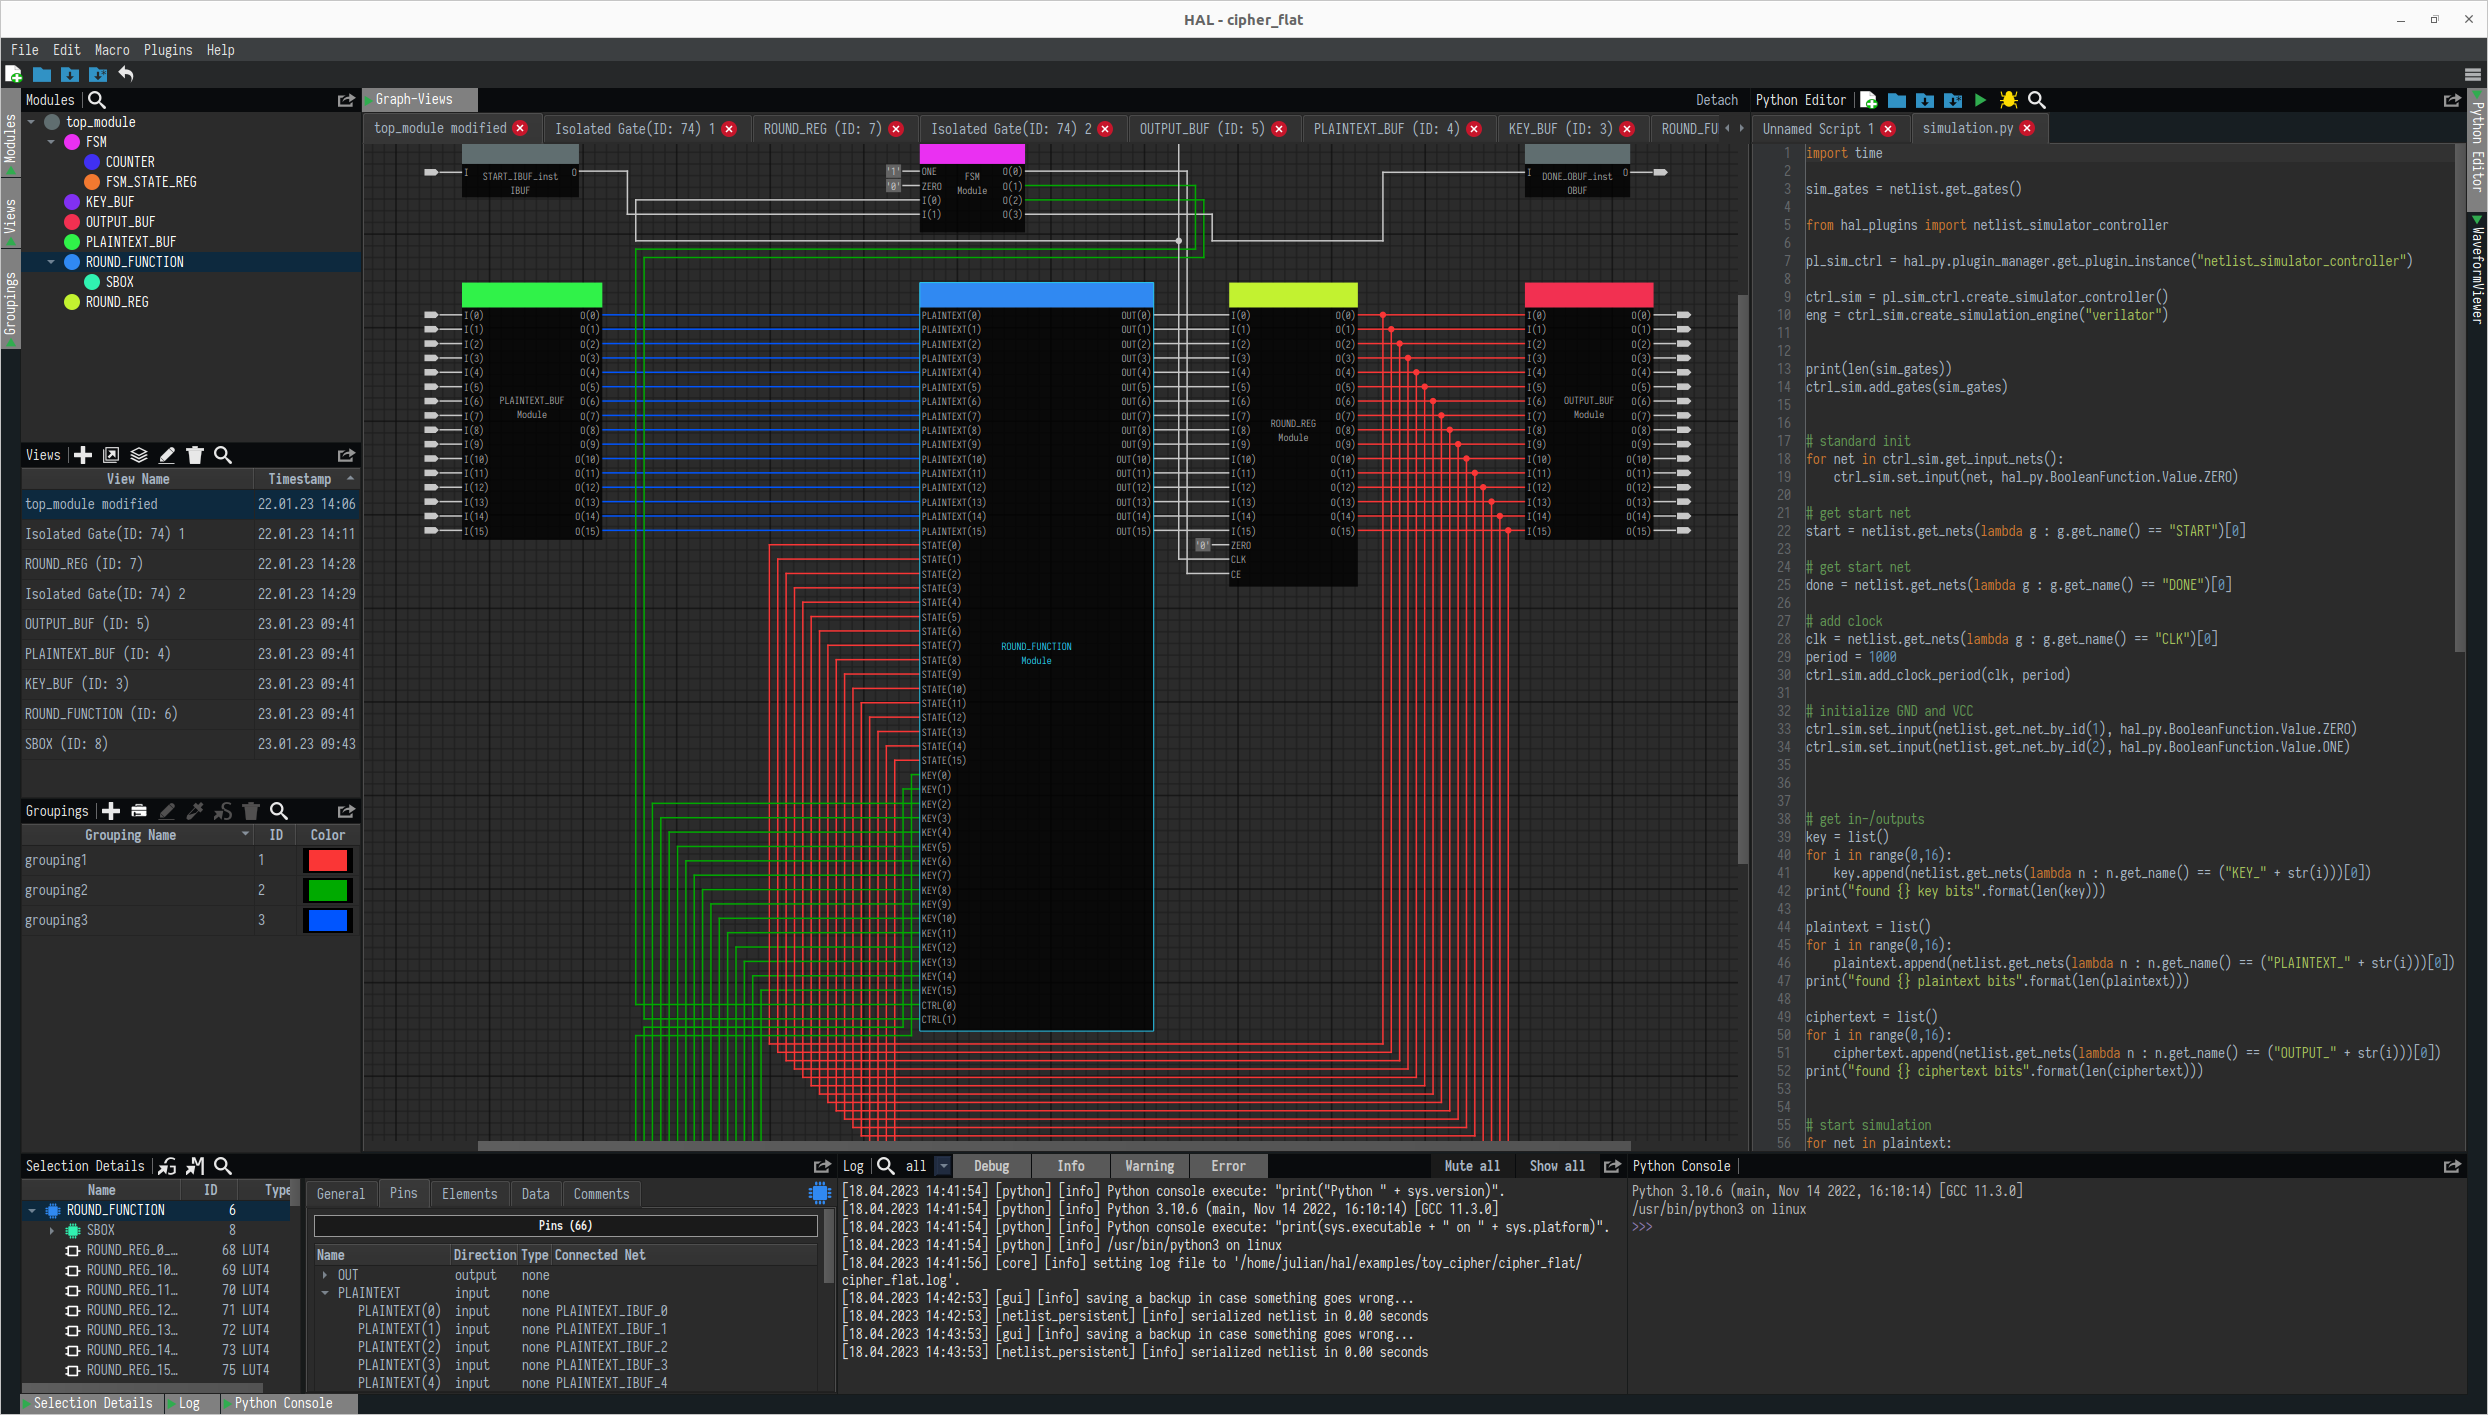
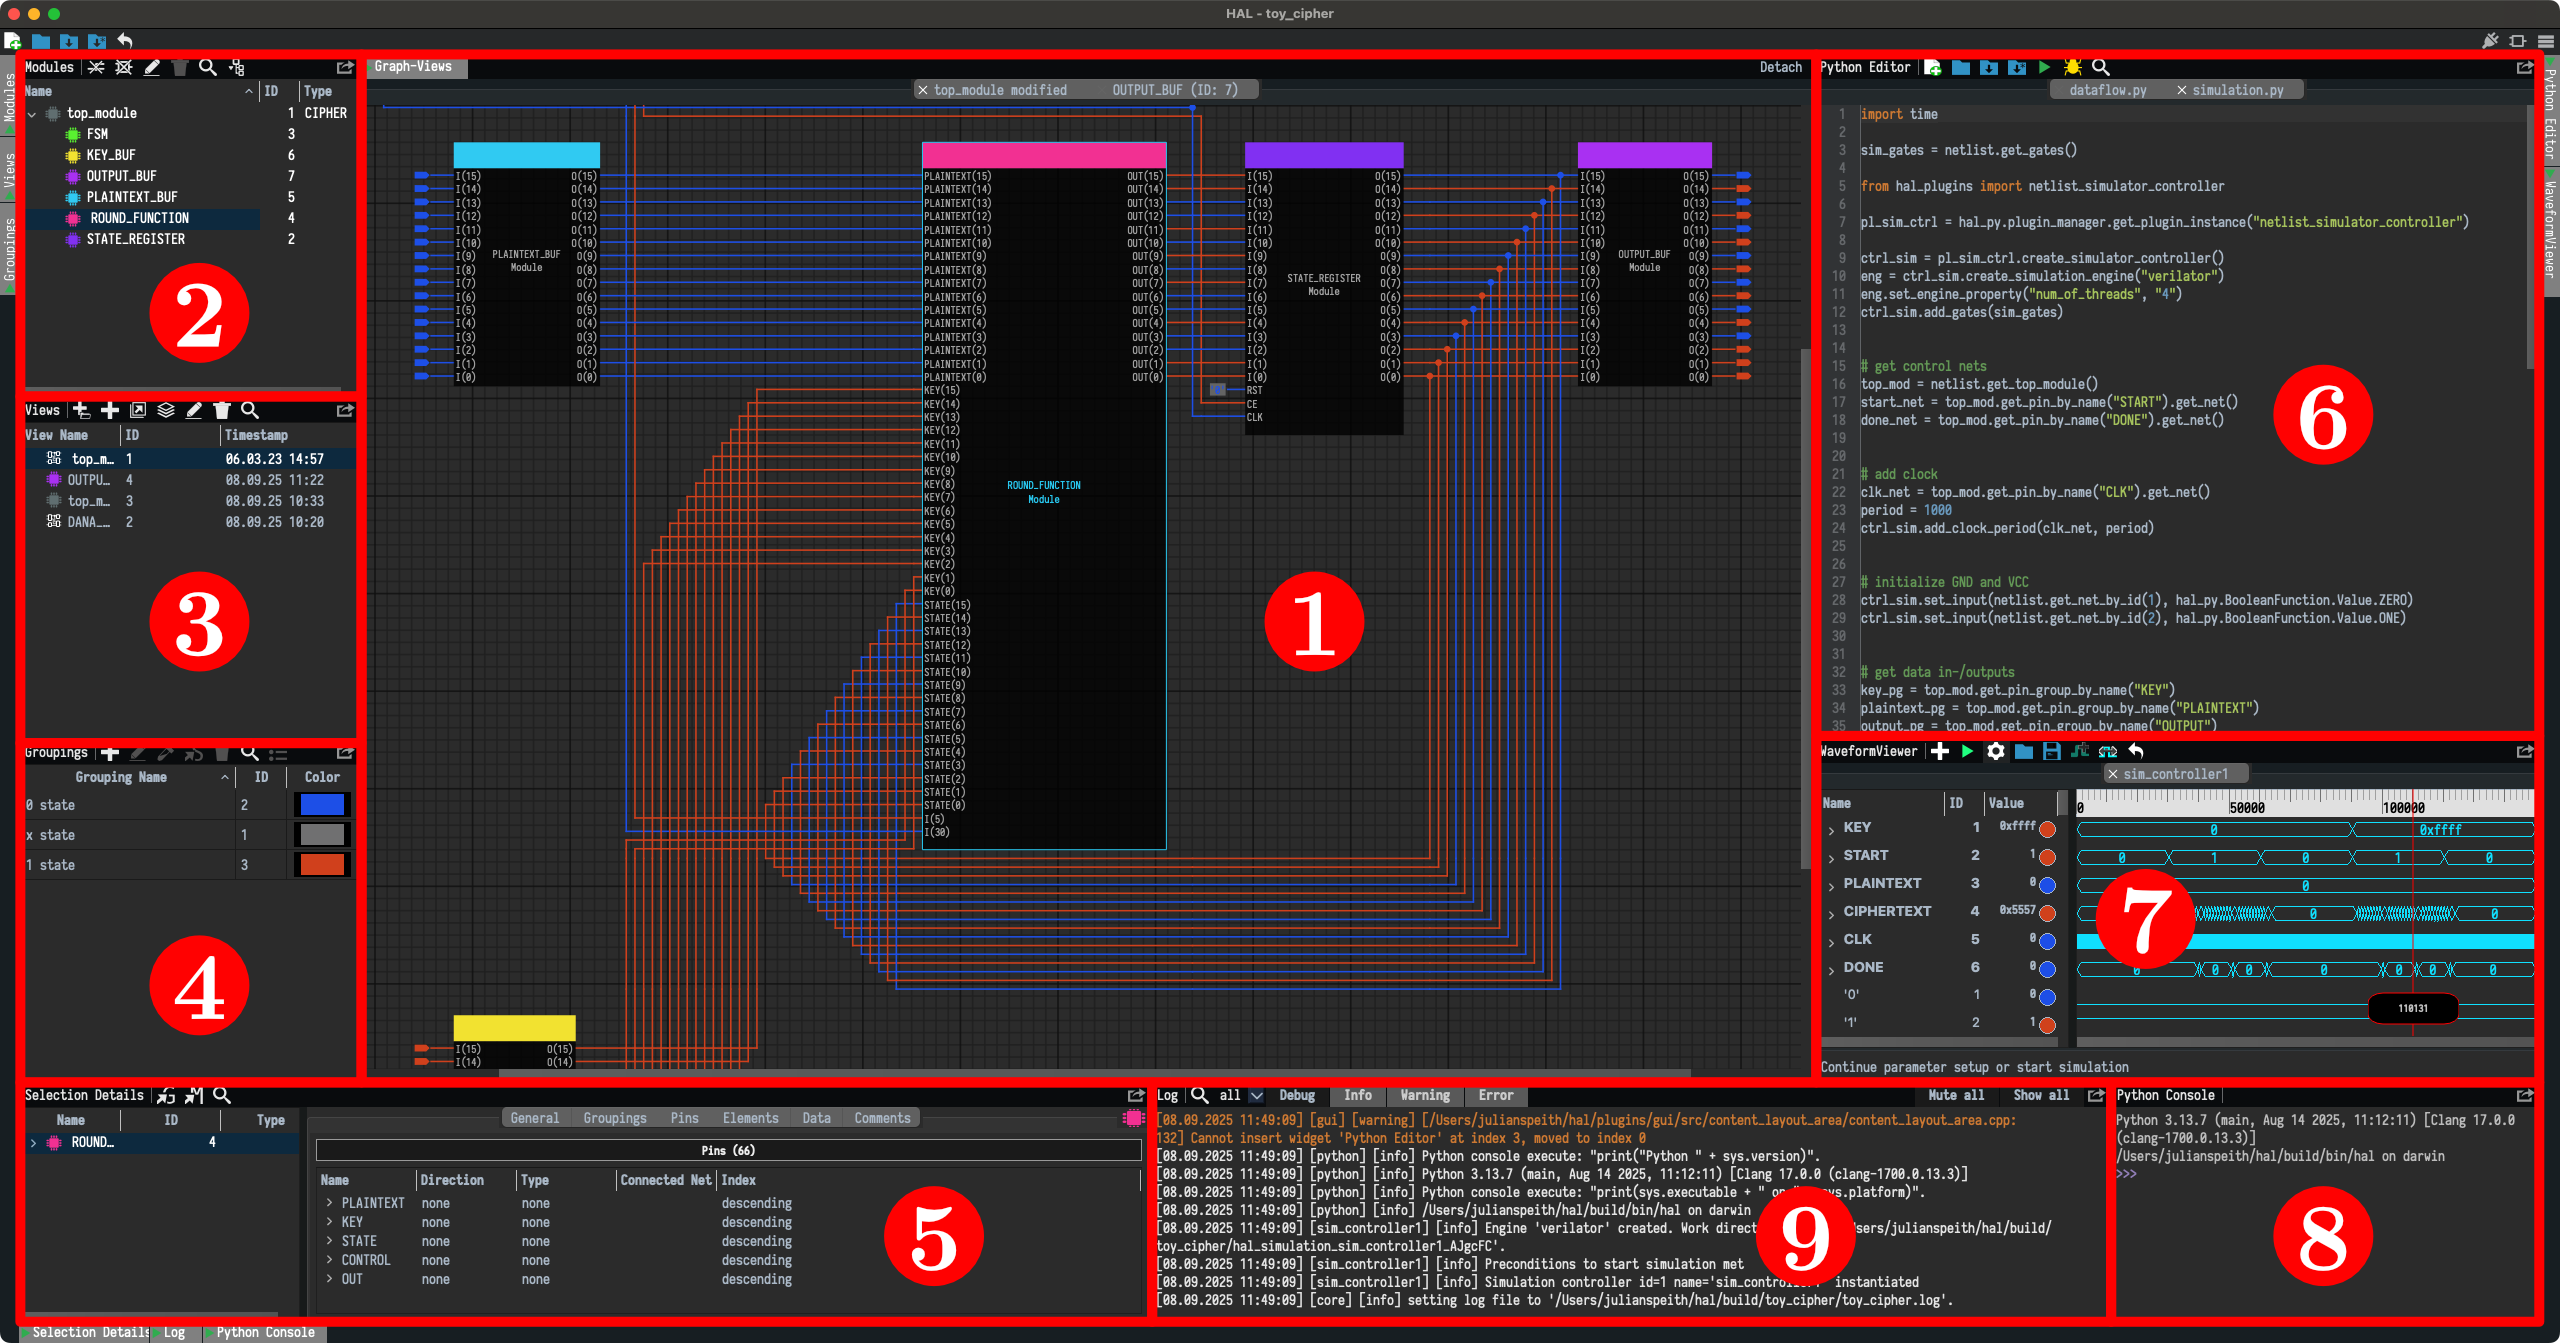
HAL screenshot updated

diff --git a/README.md b/README.md
@@ -6,7 +6,16 @@ HAL \[/hel/\] is a comprehensive netlist reverse engineering and manipulation fr
 
 ![HAL Screenshot](https://raw.githubusercontent.com/emsec/hal/master/hal_screenshot.png "HAL Screenshot")
 
-
+HAL GUI screenshot
+1. [Graph View](#gui-graph-view)
+2. [Modules Hierarchy](#gui-modules)
+3. [View Management](#gui-views)
+4. [Groupings](#gui-groupins)
+5. [Selection Details](#gui-selection-details)
+6. [Python Editor](#gui-python-editor)
+7. [Waveform Viewer](#gui-waveform-viewer)
+8. [Python Console](#gui-python-console)
+9. [Log Messages](#gui-log-messages)
 
 
 # Navigation
